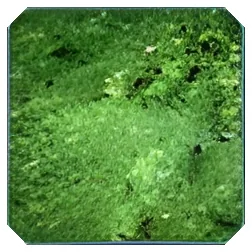
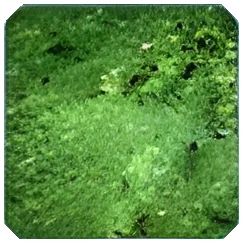
thinner border of unit images on unit cards

diff --git a/src/components/unit/sections/Header.vue b/src/components/unit/sections/Header.vue
@@ -59,7 +59,7 @@ defineExpose({ name: 'Header', isShown, isCompact: false })
   &__img
     align-self: center
     position: relative
-    margin: 2px
+    margin: 1px
     &-main
       width: 64px
       height: 64px
@@ -70,14 +70,16 @@ defineExpose({ name: 'Header', isShown, isCompact: false })
         overflow: hidden
         width: 64px
         height: 64px
+        border-right: 1px solid transparent
+        border-bottom: 1px solid transparent
     &-bg
       position: absolute
       bottom: 0
       left: 0
-      width: calc(100% + 4px)
+      width: calc(100% + 2px)
       height: auto
       z-index: -1
-      margin: -2px
+      margin: -1px
     &-strategic
       position: absolute
       left: 2px
@@ -89,7 +91,7 @@ defineExpose({ name: 'Header', isShown, isCompact: false })
         left: 3px
         top: 3px
   &__content
-    margin-top: 2px
+    margin-top: 1px
     display: flex
     flex-direction: column
     align-items: flex-start
